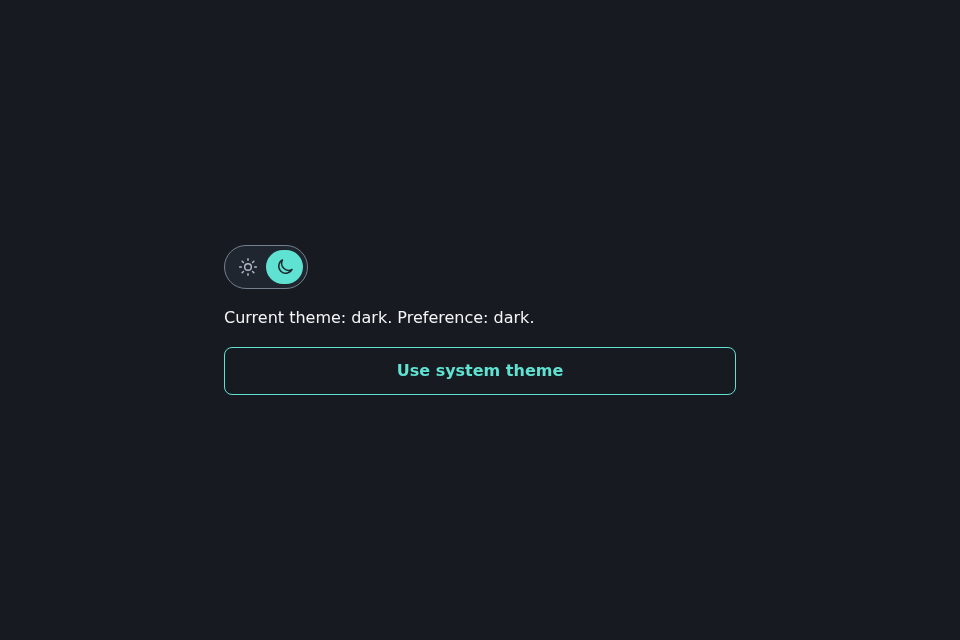
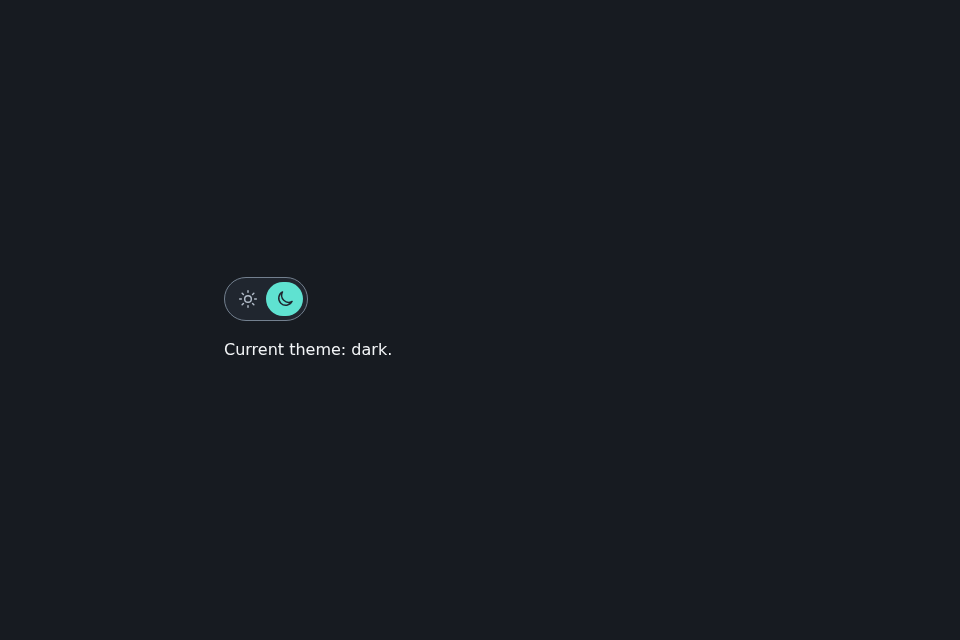
fix(demo): keep theme selection on the sun/moon switch
Remove the extra system-theme action from gallery controls and the ThemeToggle demo. Keep automatic system defaults, saved manual choices, palette selection, and synchronized previews. Update the guide, preview images, and regression checks.

Changed region(s): [[0.2188, 0.375, 0.5625, 0.5625], [0.4062, 0.5625, 0.5938, 0.5938]]

diff --git a/apps/storybook/demo-tests/library-demos.spec.ts b/apps/storybook/demo-tests/library-demos.spec.ts
@@ -49,7 +49,8 @@ for (const demo of library) {
         await frame.getByRole('button', { name: 'Dark mode', exact: true }).click();
         await expect(page.locator('.gallery')).toHaveAttribute('data-theme', 'light');
         await expect(frame.locator('html')).toHaveAttribute('data-theme', 'light');
-        await frame.getByRole('button', { name: 'Use system theme' }).click();
+        await expect(frame.getByRole('button', { name: 'Use system theme' })).toHaveCount(0);
+        await frame.getByRole('button', { name: 'Dark mode', exact: true }).click();
         await expect(page.locator('.gallery')).toHaveAttribute('data-theme', 'dark'); break;
       case 'themepaletteselect':
         await frame.getByLabel('Color palette').selectOption('forest');
@@ -122,10 +123,11 @@ for (const theme of ['light', 'dark'] as const) {
     await page.emulateMedia({ colorScheme: theme });
     await page.emulateMedia({ colorScheme: other });
     await expect(page.locator('.gallery')).toHaveAttribute('data-theme', theme);
-    await page.getByRole('button', { name: 'Use system theme' }).click();
+    await expect(page.getByRole('button', { name: 'Use system theme' })).toHaveCount(0);
+    await page.getByRole('button', { name: 'Dark mode', exact: true }).click();
     await expect(page.locator('.gallery')).toHaveAttribute('data-theme', other);
     await page.emulateMedia({ colorScheme: theme });
-    await expect(page.locator('.gallery')).toHaveAttribute('data-theme', theme);
+    await expect(page.locator('.gallery')).toHaveAttribute('data-theme', other);
     await expect(page.locator('.gallery')).toHaveAttribute('data-palette', 'plum');
   });
 }
@@ -162,7 +164,7 @@ test('unavailable or invalid storage falls back to system and keeps manual contr
   await expect(page.locator('.gallery')).toHaveAttribute('data-theme', 'light');
   await page.frameLocator('iframe').getByRole('button', { name: 'Dark mode', exact: true }).click();
   await expect(page.locator('.gallery')).toHaveAttribute('data-theme', 'dark');
-  await page.getByRole('button', { name: 'Use system theme' }).click();
+  await page.getByRole('button', { name: 'Dark mode', exact: true }).click();
   await expect(page.frameLocator('iframe').locator('html')).toHaveAttribute('data-theme', 'light');
 });
 

diff --git a/apps/demo/src/component-example.tsx b/apps/demo/src/component-example.tsx
@@ -19,7 +19,7 @@ export function ComponentExample({ slug }: { slug: string }) {
     case 'textarea': content = <><Textarea label="Message" value={text} onChange={(event) => setText(event.target.value)} /><p role="status">{text.length} characters</p></>; break;
     case 'select': content = <><Select label="Workspace" value={selected} onChange={(event) => setSelected(event.target.value)}><option value="personal">Personal</option><option value="team">Team</option></Select><p role="status">Selected workspace: {selected}</p></>; break;
     case 'checkbox': content = <><Checkbox label="Email updates" checked={checked} onChange={(event) => setChecked(event.target.checked)} /><p role="status">{checked ? 'Updates enabled.' : 'Updates disabled.'}</p></>; break;
-    case 'themetoggle': content = <><ThemeToggle theme={appearance.theme} onThemeChange={(theme) => changeAppearance({ theme })} /><p role="status">Current theme: {appearance.theme}. Preference: {appearance.preference}.</p><Button variant="secondary" onClick={() => changeAppearance({ theme: 'system' })}>Use system theme</Button></>; break;
+    case 'themetoggle': content = <><ThemeToggle theme={appearance.theme} onThemeChange={(theme) => changeAppearance({ theme })} /><p role="status">Current theme: {appearance.theme}.</p></>; break;
     case 'themepaletteselect': content = <><ThemePaletteSelect palette={appearance.palette} onPaletteChange={(palette) => changeAppearance({ palette })} /><p role="status">Current palette: {appearance.palette}</p></>; break;
     case 'navbar': content = <><Navbar label="Example navigation" brand="Studio" homeHref="#example-overview" links={[{ href: '#example-overview', label: 'Overview' }, { href: '#example-projects', label: 'Projects' }]} /><h2 id="example-overview">Studio overview</h2><p id="example-projects">Browse the navigation with your keyboard or open its menu on a narrow screen.</p></>; break;
     case 'sidebar': content = <><Sidebar label="Project navigation" links={[{ href: '#example-projects', label: 'Projects', current: true }, { href: '#example-settings', label: 'Settings' }]} /><p id="example-projects">Your projects</p><p id="example-settings">Workspace settings</p></>; break;

diff --git a/apps/demo/src/main.tsx b/apps/demo/src/main.tsx
@@ -16,8 +16,7 @@ if (location.hash === '#components') history.replaceState(null, '', '#demos');
 
 function AppearanceControls() {
   const appearance = useAppearance();
-  return <div className="appearance-controls"><ThemePaletteSelect palette={appearance.palette} onPaletteChange={(palette) => changeAppearance({ palette })} />
-    <Button variant="secondary" disabled={appearance.preference === 'system'} onClick={() => changeAppearance({ theme: 'system' })}>Use system theme</Button></div>;
+  return <div className="appearance-controls"><ThemePaletteSelect palette={appearance.palette} onPaletteChange={(palette) => changeAppearance({ palette })} /></div>;
 }
 function Gallery() {
   const appearance = useAppearance();

diff --git a/apps/demo/src/styles.css b/apps/demo/src/styles.css
@@ -447,7 +447,6 @@ body {
 
 #demos { border-top: 1px solid var(--gallery-border); }
 .appearance-controls { display: grid; gap: .5rem; }
-.appearance-controls > .uik-button { justify-self: start; font-size: .8rem; }
 body { background: inherit; }
 .component-preview { background: transparent; display: grid; place-items: center; min-height: 448px; padding: 2rem; }
 .component-example { display: grid; gap: 1rem; width: min(100%, 32rem); min-width: 0; }

diff --git a/README.md b/README.md
@@ -34,9 +34,9 @@ URLs remain available for embedding and existing links.
 
 Appearance starts with the system's light or dark preference and follows system
 changes until you choose a theme with the sun/moon switch. Your choice is saved
-for future visits. Changing a palette keeps system mode active. Choose **Use
-system theme** to follow the system again. Appearance remains usable when browser
-storage is unavailable. The gallery and its previews share this behavior.
+for future visits. Changing a palette keeps the current theme preference.
+The sun/moon switch is the only theme control. Appearance remains usable when
+browser storage is unavailable. The gallery and its previews share this behavior.
 
 Run `pnpm build:demo`, `pnpm verify:demos`, then `pnpm test:demo` to check the
 catalog, static routes, assets, interactions, themes, accessibility, and visual
